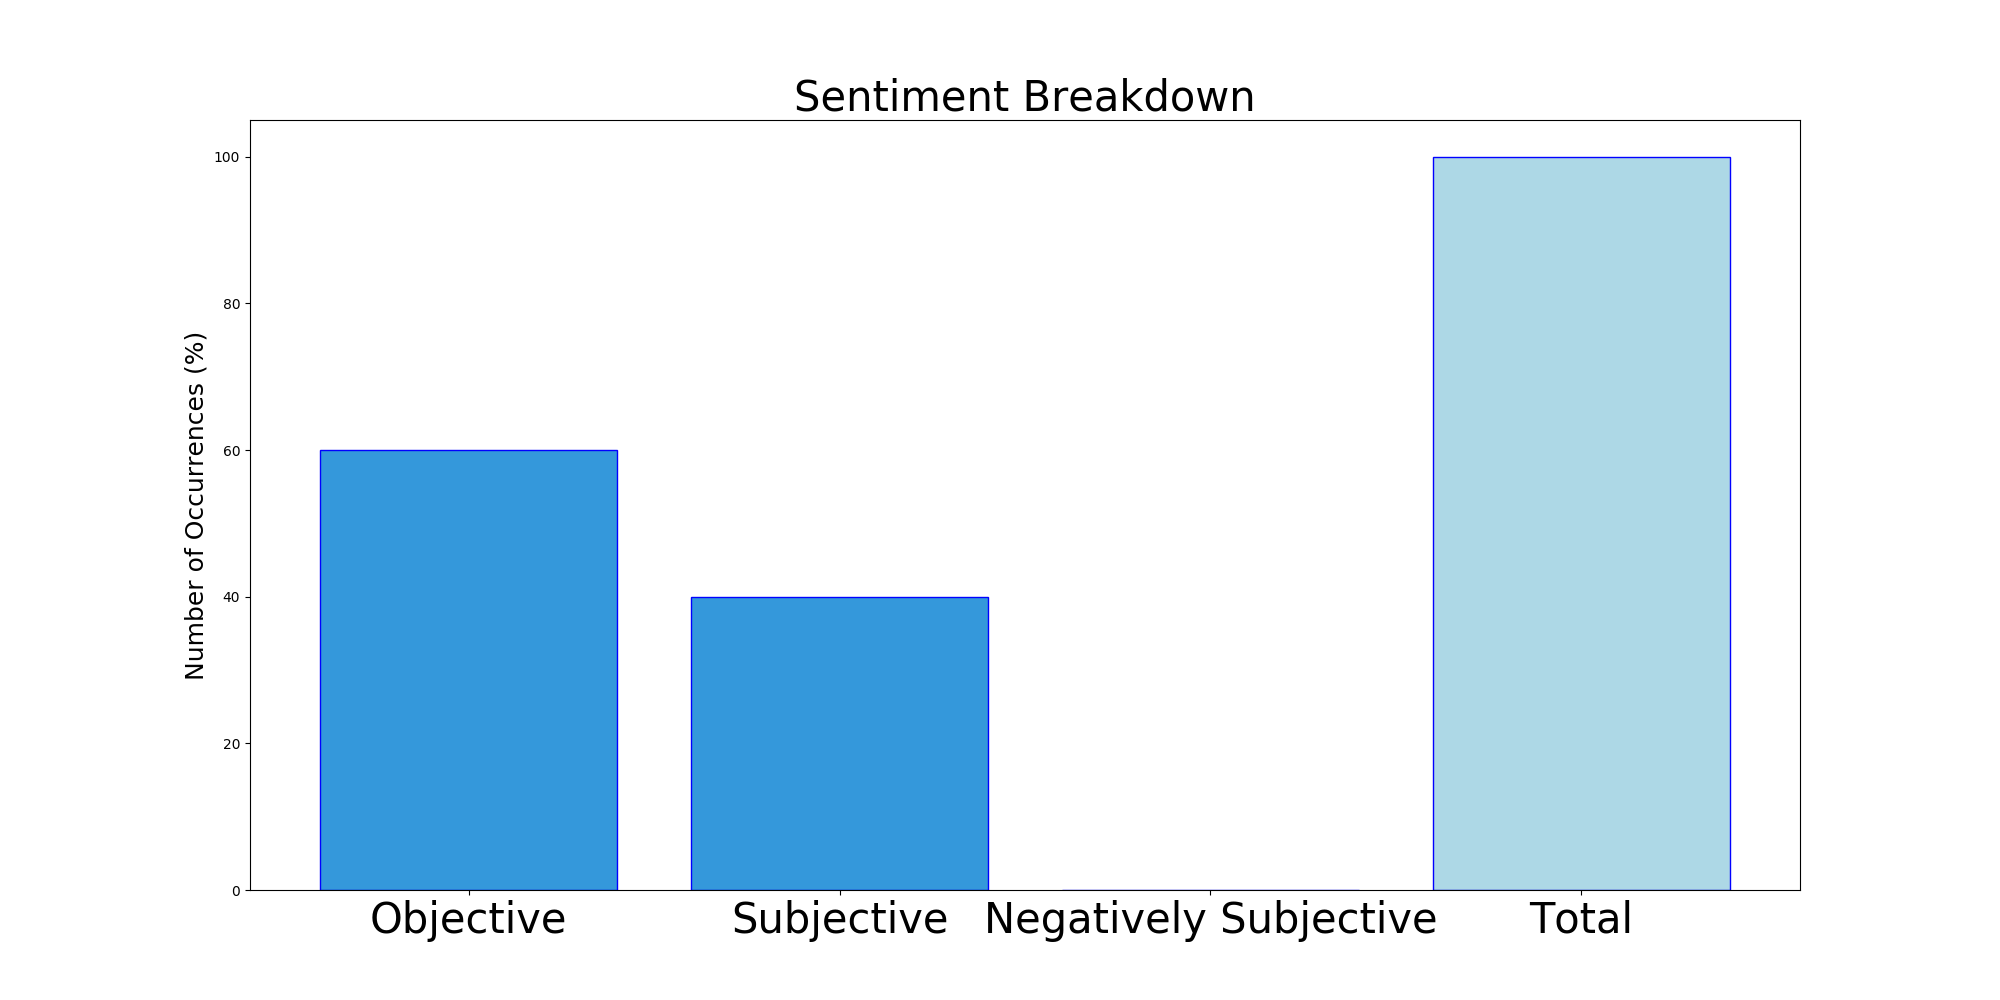
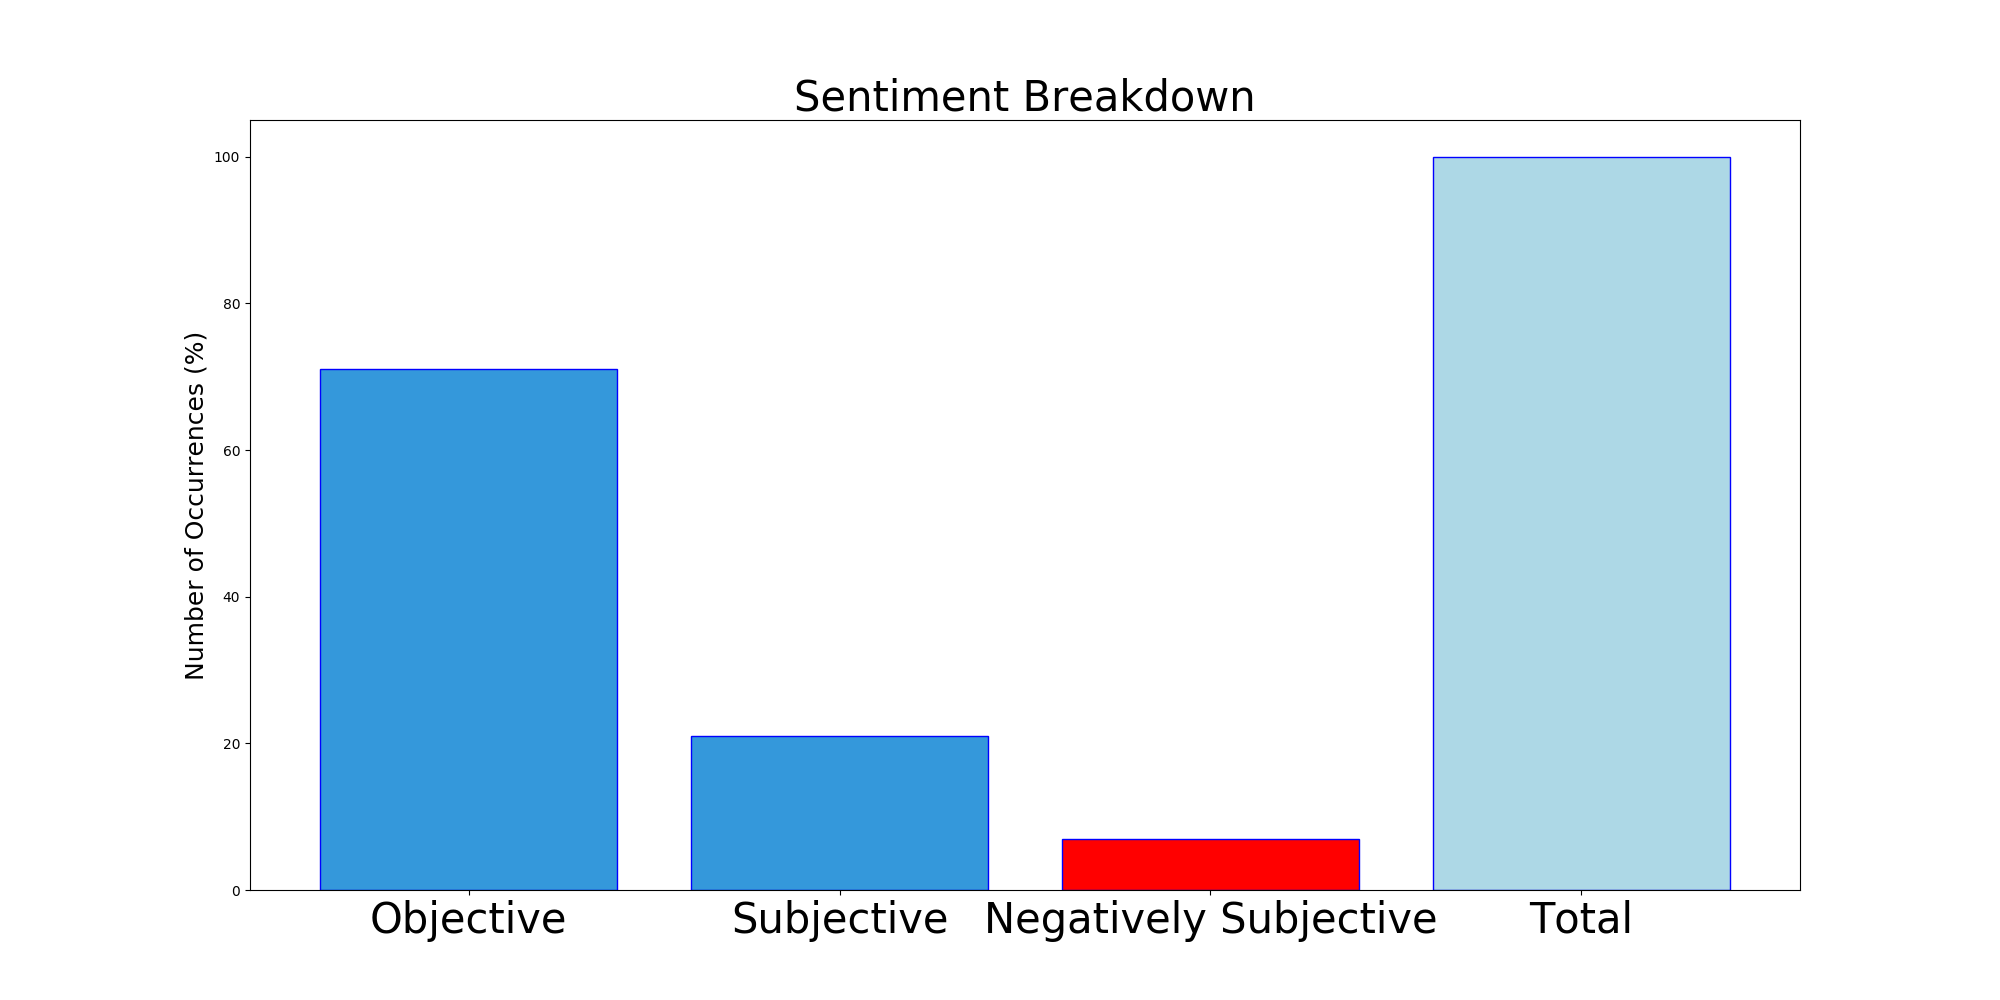
Updating with latest report

Changed region(s): [[0.341, 0.589, 0.496, 0.744], [0.155, 0.341, 0.31, 0.465], [0.527, 0.837, 0.682, 0.899]]

diff --git a/README.md b/README.md
@@ -1,5 +1,5 @@
 # MURCHIE85 TWITTER PROCESSING 
-&#x1F34E; **TOPIC = "realDonaldTrump"**
+&#x1F34E; **TOPIC = "YouTube"**
 
 ## AUTOMATED RESEARCH SUMMARY
 
@@ -15,20 +15,19 @@
 
 |                **Sample-Tweets**        |
 | :-------------: |
-| <div class="alert alert-block alert-warning">RT @theangiestanton: I gave birth in chains while serving time in an American prison. @realDonaldTrump made it illegal to chain women durin…</div> <div class="alert alert-block alert-success">RT @JosephJFlynn1: Thank you @CharlieDaniels and @TJHproject  for this wonderful gift to @GenFlynn and for all you do for our awesome Veter…</div> <div class="alert alert-block alert-info">RT @BernieSanders: Don't tell @realDonaldTrump this because he'll get very nervous—we're going to beat him in Texas.</div> |
-The most popular user is: **lauriejacobs16**
-<div class="alert alert-block alert-danger"> RT @RepAdamSchiff: Mr. President, I didn’t say that. But if you wish to quote me, quote this:
-
-”The only thing Americans despise more than…</div>
+| <div class="alert alert-block alert-warning">Lewis Alfonso - 2Xplain [~ mix] https://t.co/PMqBjVU3mw via @YouTube</div> <div class="alert alert-block alert-success">RT @bts_bighit: Thank you for your support, @youtubemusic! https://t.co/2a6YwusuIF https://t.co/04wJMAOpJC</div> <div class="alert alert-block alert-info">RT @joonikii: Uhh... so I actually bought another MOTS: 7 album... and turns out there's 7 JIN PHOTO CARDS IN THIS ONE ALBUM WTF??I'm goi…</div> |
+The most popular user is: **AreebaMoazma**
+<div class="alert alert-block alert-danger"> RT @bts_bighit: [#방탄밤] [#방밤캠] ‘#ON' Kinetic Manifesto Film 단체 Focus ver.
+(https://t.co/HygA9U4gOq)</div>
 
 ## RELATED METRICS<br>
 | Metric | Value |
 | ------------- | ------------- |
-| #1 Most tweeted to  | **realDonaldTrump** |
-| #2 Most tweeted to  | **BernieSanders** |
-| #3 Most tweeted to  | **RepAdamSchiff** |
+| #1 Most tweeted to  | **YouTube** |
+| #2 Most tweeted to  | **bts_bighit** |
+| #3 Most tweeted to  | **BTS_twt** |
 | NewProfiles (less than 10 days) | 0.0%  |
-| Tweeters with < 10 followers  | 4.0%|
+| Tweeters with < 10 followers  | 8.0%|
 | Tweeters with > 1000000 followers  | 0.0%  |
 
 
@@ -38,30 +37,29 @@ The most popular user is: **lauriejacobs16**
 
 | Popularity Rank  | Term |
 | ------------- | ------------- |
-| first  | **@REALDONALDTRUMP**  |
-| second  | **VERY**  |
-| third  | **"DONT"** |
-| fourth  | **TRUMP**  |
-| fifth  | **@BERNIESANDERS:**  |
+| first  | **YOUTUBE**  |
+| second  | **VIA**  |
+| third  | **1** |
+| fourth  | **WATCH**  |
+| fifth  | **LIVE**  |
 
 
 ## Twitter Bio Analysis![image](BIO.png)
 ### SENTIMENT ANALYSIS
 ![image](sentiment.png)
-VIEWS WERE : **SUBJECTIVE**  (40.0%) & **NEGATIVELY-SUBJECTIVE** (0.0%) **OBJECTIVE** (60.0%)
+VIEWS WERE : **SUBJECTIVE**  (21.43%) & **NEGATIVELY-SUBJECTIVE** (7.14%) **OBJECTIVE** (71.43%)
 
 ### TWEET SAMPLE 
 Random value picked from array: 
 
-<div class="alert alert-block alert-info">RT @theangiestanton: I gave birth in chains while serving time in an American prison. @realDonaldTrump made it illegal to chain women durin…</div>
+<div class="alert alert-block alert-info">Lewis Alfonso - 2Xplain [~ mix] https://t.co/PMqBjVU3mw via @YouTube</div>
 
 ### MOST RETWEETED 
 
-The most retweeted user is: **lauriejacobs16**
+The most retweeted user is: **AreebaMoazma**
 
-<div class="alert alert-block alert-danger"> RT @RepAdamSchiff: Mr. President, I didn’t say that. But if you wish to quote me, quote this:
-
-”The only thing Americans despise more than…</div>
+<div class="alert alert-block alert-danger"> RT @bts_bighit: [#방탄밤] [#방밤캠] ‘#ON' Kinetic Manifesto Film 단체 Focus ver.
+(https://t.co/HygA9U4gOq)</div>
 
 ### CONCLUSION & EXTERNAL ANALYSIS
 
